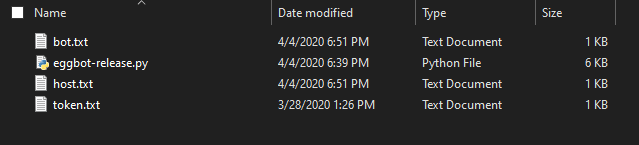
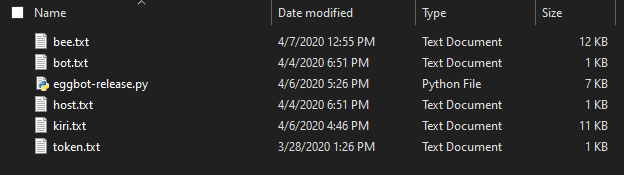
update readme and gitignore

diff --git a/README.md b/README.md
@@ -101,7 +101,6 @@ https://discordapp.com/api/oauth2/authorize?client_id=681295724188794890&permiss
 19. Setup the release.py, kiri.txt, bee.txt, and prerequisite txt files like so.
 
 ![](tutorial/setup.png)
-(not updated yet)
 
 20. Run the Python script.
 
